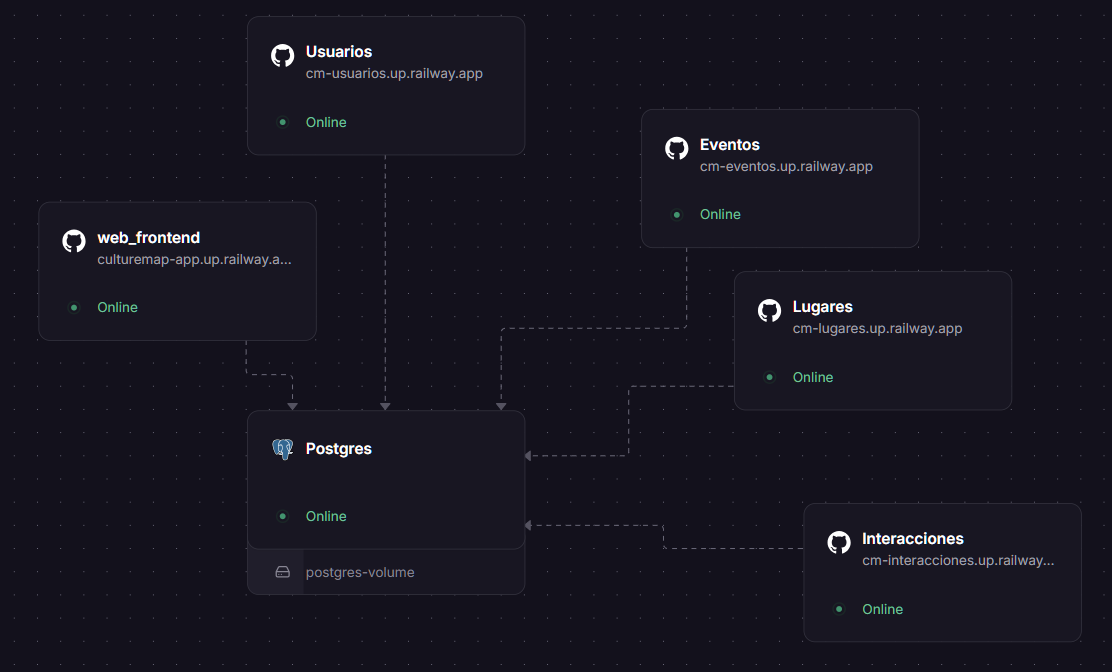
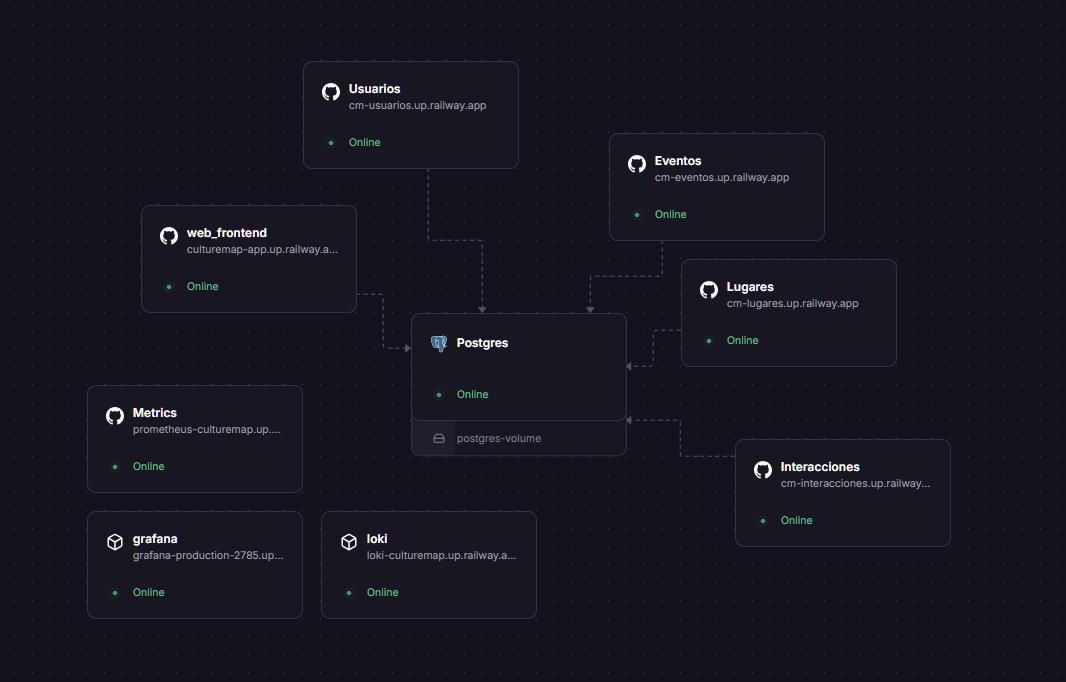
Finalizacion del hito 5

diff --git a/locustfile.py b/locustfile.py
@@ -1,0 +1,44 @@
+from locust import HttpUser, task, between
+
+class UsuarioCultureMap(HttpUser):
+    # Simula que el usuario espera entre 1 y 5 segundos entre clics
+    wait_time = between(1, 5)
+
+    @task(3)
+    def ver_inicio(self):
+        """Carga la página principal (Index de lugares)"""
+        # Ruta: path("", views.index_lugares...)
+        self.client.get("/")
+
+    @task(2)
+    def ver_lista_lugares(self):
+        """Carga el listado de lugares"""
+        self.client.get("/lugares/")
+
+    @task(2)
+    def ver_detalle_lugar(self):
+        """Entra al detalle de un lugar"""
+        # Ruta: path("lugar/<int:pk>/", ...)
+        self.client.get("/lugares/lugar/5/")
+
+    @task(1)
+    def ver_detalle_evento(self):
+        """Entra al detalle de un evento"""
+        # Ruta: path("evento/<int:pk>/", ...)
+        self.client.get("/lugares/evento/4/")
+
+    @task(1)
+    def ver_ranking(self):
+        """Consulta el ranking de usuarios"""
+        # Ruta: path("ranking/", ...)
+        self.client.get("/lugares/ranking/")
+        
+    @task(1)
+    def ver_perfil_publico(self):
+        """Visita un perfil de usuario"""
+        # Ruta: path("perfil/<int:pk>/", ...)
+        self.client.get("/lugares/perfil/6/")
+
+    def on_start(self):
+        """Se ejecuta al iniciar (opcional)"""
+        pass

diff --git a/docs/hitos/hito5.md b/docs/hitos/hito5.md
@@ -109,13 +109,78 @@ El despliegue está completamente automatizado siguiendo la metodología **GitOp
 
 ## 5. Pruebas de Prestaciones (Stress Testing)
 
-*(Se completará esta sección tras finalizar la integración del stack Grafana en la nube).*
+Para validar la robustez de la infraestructura desplegada en el IaaS (**Railway**), se ha realizado una prueba de carga utilizando **Locust**. El objetivo ha sido simular un tráfico concurrente realista para verificar que los microservicios escalan y responden adecuadamente sin que el servicio falle.
+
+### Configuración de la Prueba
+
+- **Herramienta**: Locust (framework de pruebas de carga en Python).
+- **Objetivo**: Entorno de producción  
+  https://culturemap-app.up.railway.app
+- **Carga**: 50 usuarios concurrentes (simulados).
+- **Tasa de aparición (Spawn Rate)**: 5 usuarios nuevos por segundo.
+
+### Escenario Simulado (locustfile.py)
+
+Cada usuario virtual ejecuta un ciclo de navegación que recorre los puntos críticos del sistema:
+
+- Carga de la página de inicio (listado de lugares).
+- Consulta del detalle de un lugar  
+  (petición a `service-lugares` + `service-interacciones`).
+- Consulta del detalle de un evento.
+- Visualización del ranking de usuarios y perfil público  
+  (petición a `service-usuarios`).
+
+### Resultados Obtenidos
+
+Como se observa en la captura de la interfaz de Locust, el sistema mantuvo una tasa de peticiones por segundo (**RPS**) estable con un tiempo de respuesta medio aceptable. No se registraron caídas del servidor ni errores críticos durante la prueba de estrés.
+
+![Resultados Locust](../images/Locust.png)
+
+**Figura 5.1**: Panel de control de Locust durante la ejecución de la prueba de carga con 50 usuarios concurrentes.
 
 ---
 
 ## 6. Monitorización y Observabilidad
 
-*(Se completará esta sección tras finalizar la integración del stack Grafana en la nube).*
+Para cumplir con los requisitos de observabilidad en la nube, se ha desplegado un stack completo de monitorización compuesto por **Prometheus**, **Loki** y **Grafana**, ejecutándose en contenedores independientes dentro de Railway.
+
+### 6.1. Arquitectura de Monitorización
+
+- **Recolección de Métricas (Prometheus)**
+ Cada microservicio Django (backend y frontend) ha sido instrumentado mediante `django-prometheus`. Prometheus realiza *scraping* cada 15 segundos a los endpoints `/metrics` de los cinco servicios desplegados.
+
+- **Ingesta de Logs (Loki)**  
+  El sistema de logging de Django se ha configurado para enviar los registros en tiempo real a Loki mediante `python-logging-loki`, centralizando la salida de logs de todos los contenedores.
+
+- **Visualización (Grafana)**  
+  Se ha diseñado un dashboard unificado que conecta con Prometheus y Loki, permitiendo correlacionar métricas y logs en un único panel de control.
+
+### 6.2. Dashboard de Operaciones
+
+El panel de control diseñado permite una interpretación clara del estado del sistema en tiempo real. Se estructura en cuatro niveles de información:
+
+- **Estado de Servicios (Semáforos)**  
+  Indicadores visuales basados en la métrica `up`, que verifican que los cinco contenedores  
+  (Frontend + 4 microservicios) están activos y respondiendo correctamente.
+
+- **Tráfico en Tiempo Real (RPS)**  
+  Gráfica de series temporales basada en `rate()`, que muestra la carga exacta que recibe cada vista de la aplicación.
+
+- **Tasa de Errores (5XX)**  
+  Monitorización de respuestas HTTP 500, permitiendo detectar fallos críticos en el código bajo condiciones de carga.
+
+- **Logs en Vivo (Traza)**  
+  Panel conectado a Loki que muestra las peticiones HTTP y mensajes del sistema en tiempo real, facilitando la depuración durante picos de tráfico.
+
+### Evidencias
+
+![Dashboard Grafana en reposo](../images/DashboardInit.png)
+
+**Figura 6.1**: Dashboard de Grafana en estado de reposo. Los servicios están operativos (verde) con tráfico residual.
+
+![Dashboard Grafana bajo carga](../images/DashboardLocust.png)
+
+**Figura 6.2**: Dashboard durante la prueba de estrés. Se observa el aumento drástico del tráfico en tiempo real y la ingesta masiva de logs, correlacionándose con la ejecución de Locust.
 
 ---
 
